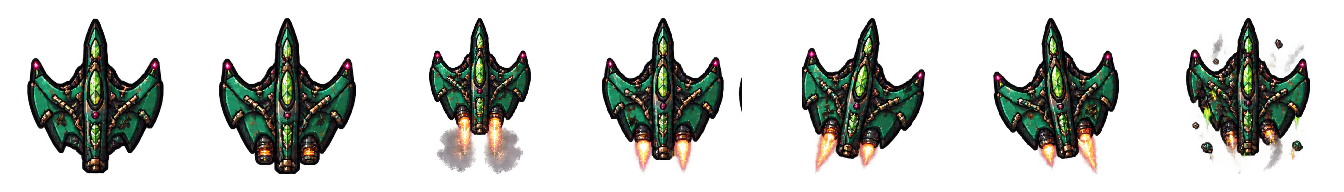
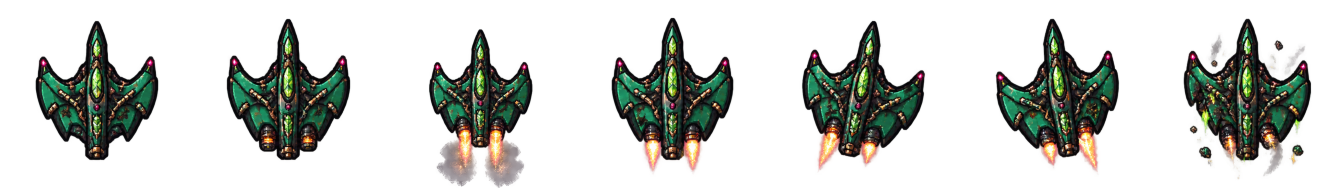
fix: rebuild Resin Warden strip from whole poses, re-measure its points
From resin_warden_final_concept.png (art/verdant-elite-ships worktree; the live strip was its final candidate). The hover cell keeps the live scale (0.451 of the sheet) so the size in flight is unchanged; the parked, bank and damaged cells now share it (they were 0.50 / 0.45-0.46 / 0.44) and every hull is registered on the hover hull. The lift-off cell takes 0.385 so its smoke column fits (it was 0.37). The hull's wing span is centred on the cell: it sat 10 px left because the stray sliver had been inside the bounding box. Cell 3's sliver and cell 4's cut left wing are gone. Muzzles 34,64 / 139,63 -> 44,64 / 149,63 and nozzles 66,136 / 106,135 -> 76,137 / 115,135, measured on the hover cell; hullRadius (0.36, measured 0.35) and noseDeg (90, measured 89) stand. Source strip and Resources copy are byte-identical.

diff --git a/.claude/skills/add-elite-ship/SKILL.md b/.claude/skills/add-elite-ship/SKILL.md
@@ -92,8 +92,10 @@ EOF
 The zoom is easier to read on a dark backdrop with a 16 px grid (alpha
 composite onto (30,24,60) and draw lines every 16 px) -- you can read
 seed coordinates straight off it. Note stray pixels near the cell edges
-(e.g. `resin_warden.png` cell 3 has a dark sliver at x~163): report them to
-Codex, never edit the art.
+(a slice of the neighbouring pose, left by a grid cut: `resin_warden.png` cell 3
+had one at x~163 until it was re-celled from its concept sheet on 2026-10-05;
+`Art/Enemies/src~/audit_cells.py` finds them): report them to Codex, never
+edit the art.
 
 Then Read the zoomed PNG. Decide: which way the **nose** points in the art
 (degrees, 0 right, 90 up), whether it is a hover/upright design (gunships,
